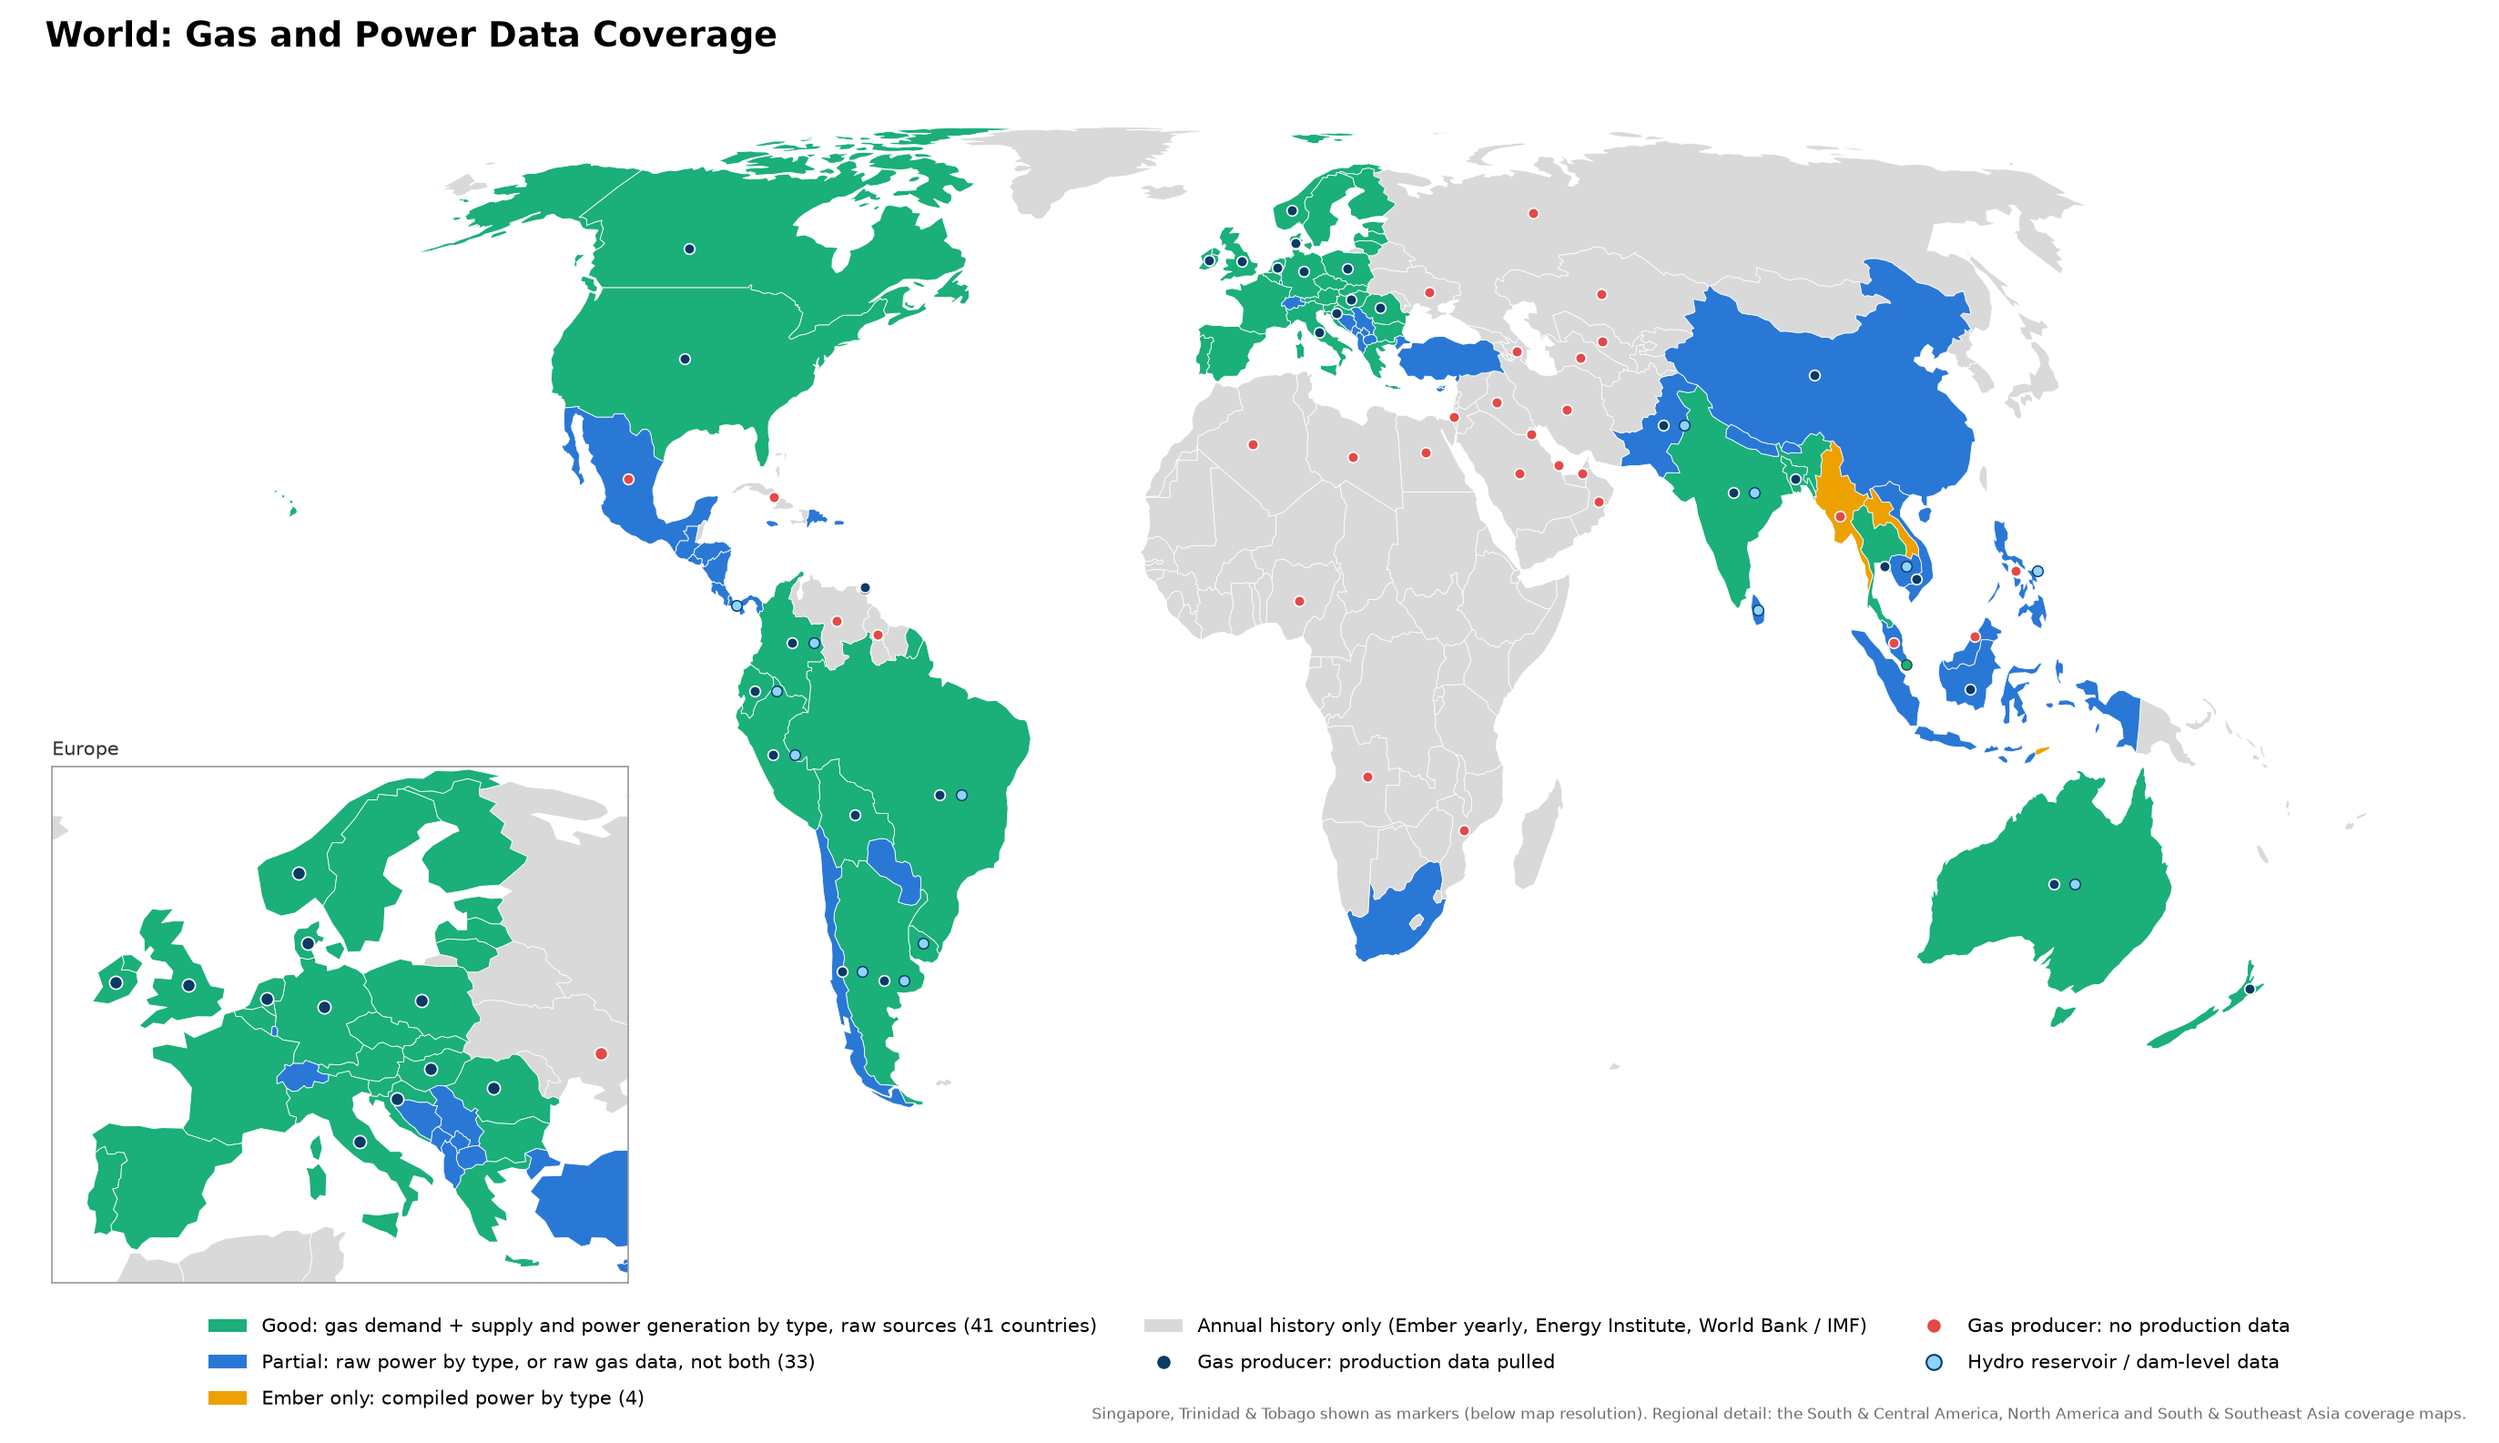
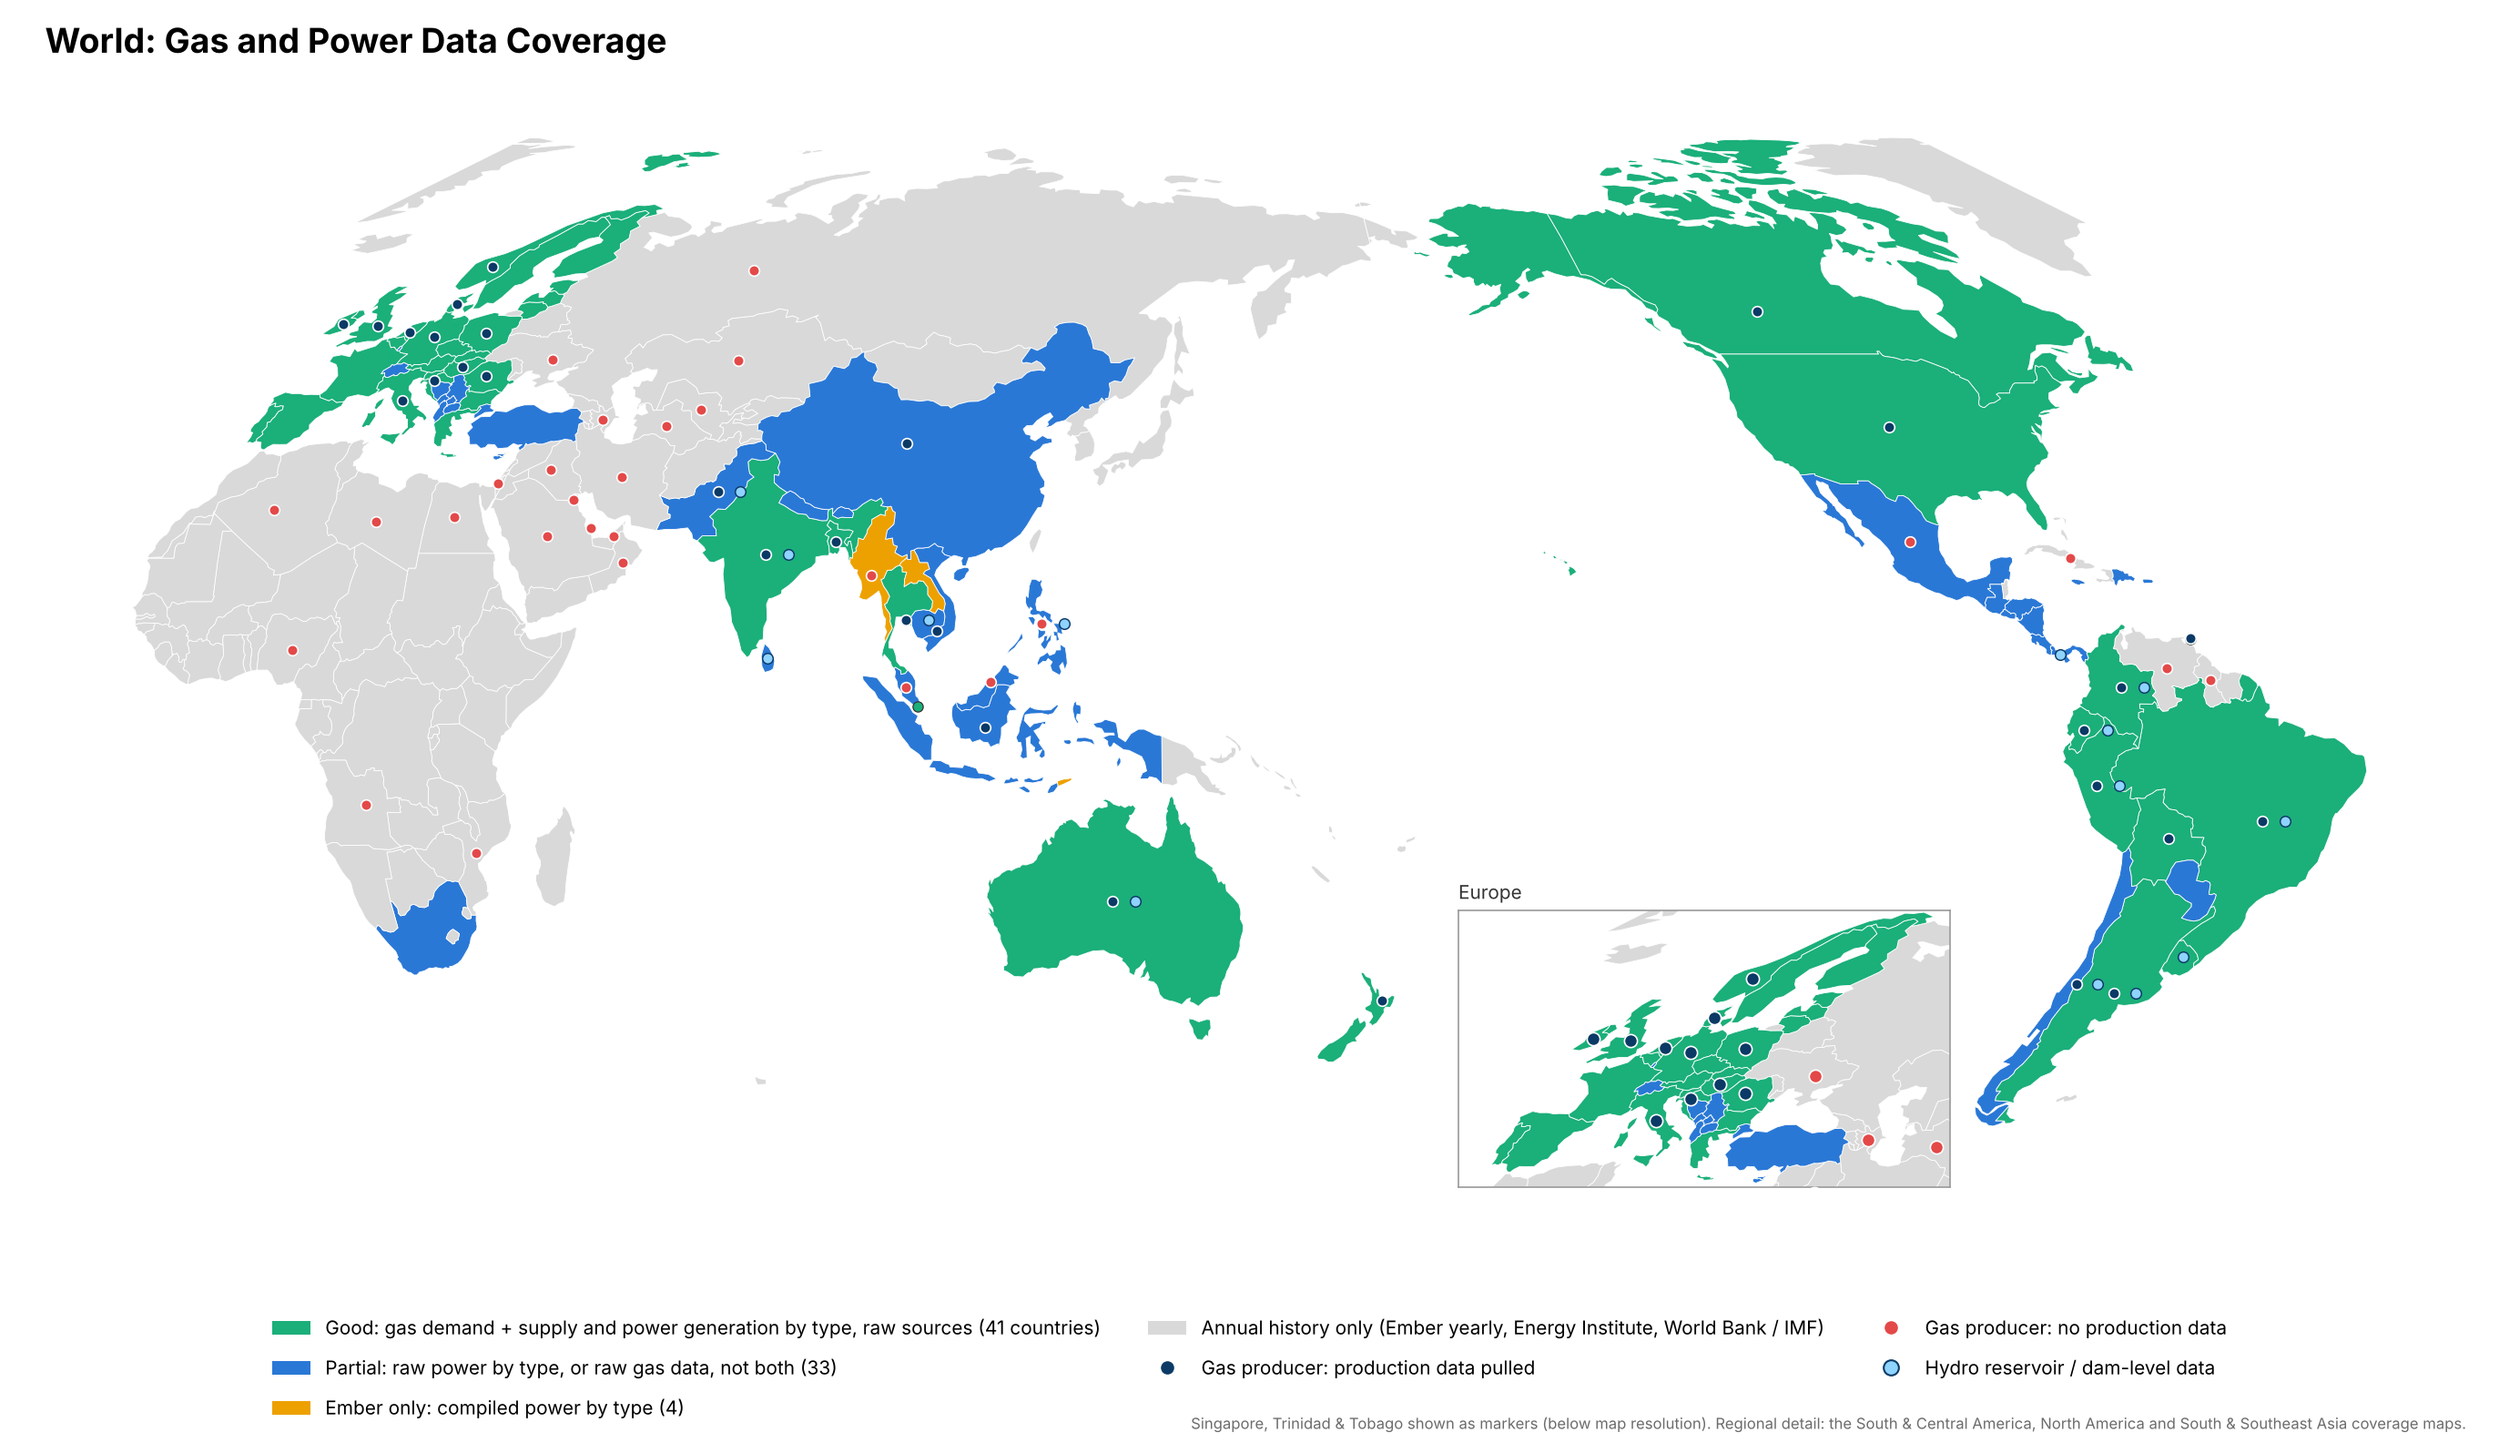
World coverage map: Pacific-centred (Robinson, 150°E), shapes cut at 30°W, Europe inset moved to the South Pacific
Claude-Session: https://claude.ai/code/session_019EoSWL5tejvgDCCm5obWbX

diff --git a/WORLD_COVERAGE_MAP.py b/WORLD_COVERAGE_MAP.py
@@ -13,7 +13,8 @@ light blue = hydro reservoir / dam-level data.
 
 COVERAGE is maintained by hand: update it when a pull is added (South & Central America is read from
 south_america/COVERAGE_MAP.py so the two stay in step). Country shapes: Natural Earth 1:110m (bundled with
-geopandas 0.14), Equal Earth projection.
+geopandas 0.14), Equal Earth projection centred on the Pacific (150°E), so the Atlantic is the map's
+edge; countries crossing 30°W (Greenland) are cut there.
 
 Usage: python3 WORLD_COVERAGE_MAP.py [--out "output/PNG Charts/world_coverage_map.png"]
 """
@@ -24,6 +25,7 @@ import warnings
 
 import geopandas as gpd
 import matplotlib
+from shapely.geometry import box
 
 matplotlib.use("Agg")
 import matplotlib.pyplot as plt  # noqa: E402
@@ -31,7 +33,8 @@ from matplotlib.lines import Line2D  # noqa: E402
 from matplotlib.patches import Patch  # noqa: E402
 
 ROOT = os.path.dirname(os.path.abspath(__file__))
-CRS = "EPSG:8857"   # Equal Earth
+CRS = "+proj=robin +lon_0=150 +datum=WGS84 +units=m +no_defs"   # Robinson, Pacific-centred
+SEAM = -30.0   # the map's edge (150°E - 180°): shapes crossing it are cut there so they do not smear across the map
 GREEN, BLUE, AMBER, GREY, EDGE = "#1BAF7A", "#2A78D6", "#EDA100", "#D9D9D9", "#FFFFFF"
 FILL = {"green": GREEN, "blue": BLUE, "amber": AMBER}
 DOT_HAVE, DOT_MISSING, DOT_HYDRO = "#0B3A66", "#E34948", "#8FD3FF"
@@ -116,6 +119,14 @@ HYDRO_OFFSET = (3.5, 0.0)   # hydro dot sits to the right of the gas dot (degree
 SMALL = {"Singapore": (103.82, 1.35, "green"), "Trinidad and Tobago": (-61.3, 10.45, "green"),
          "Malta": (14.4, 35.9, None)}
 EUROPE_BOX = (-12.0, 34.0, 33.0, 71.5)   # lon_min, lat_min, lon_max, lat_max for the inset
+INSET_AT = [0.585, 0.12, 0.20, 0.30]   # figure fraction: left, bottom, width, height
+
+
+def cut_at_seam(g, eps=1e-6):
+    """Split a shape that crosses the map's edge (SEAM) into its two sides."""
+    if not g.intersects(box(SEAM - eps, -90, SEAM + eps, 90)):
+        return g
+    return g.intersection(box(-180, -90, SEAM - eps, 90)).union(g.intersection(box(SEAM + eps, -90, 180, 90)))
 
 
 def load_world():
@@ -125,6 +136,7 @@ def load_world():
     world = world[world["name"] != "Antarctica"].copy()
     world.loc[world["name"] == "N. Cyprus", "name"] = "Cyprus"
     world.loc[world["name"] == "Somaliland", "name"] = "Somalia"
+    world["geometry"] = world.geometry.map(cut_at_seam)
     world["fill"] = world["name"].map(lambda n: FILL[COVERAGE[n][0]] if n in COVERAGE else GREY)
     return world
 
@@ -182,8 +194,8 @@ def main():
     ax.set_axis_off()
     ax.set_title("World: Gas and Power Data Coverage", fontsize=18, fontweight="bold", loc="left", x=0.01)
 
-    # Europe inset (bottom left, over the South Pacific)
-    ins = fig.add_axes([0.005, 0.10, 0.25, 0.36])
+    # Europe inset (bottom, over the South Pacific between New Zealand and South America)
+    ins = fig.add_axes(INSET_AT)
     draw(ins, world, small_dots=11)
     lo, la, hi_lo, hi_la = EUROPE_BOX
     a, b = pt(lo, la), pt(hi_lo, hi_la)
